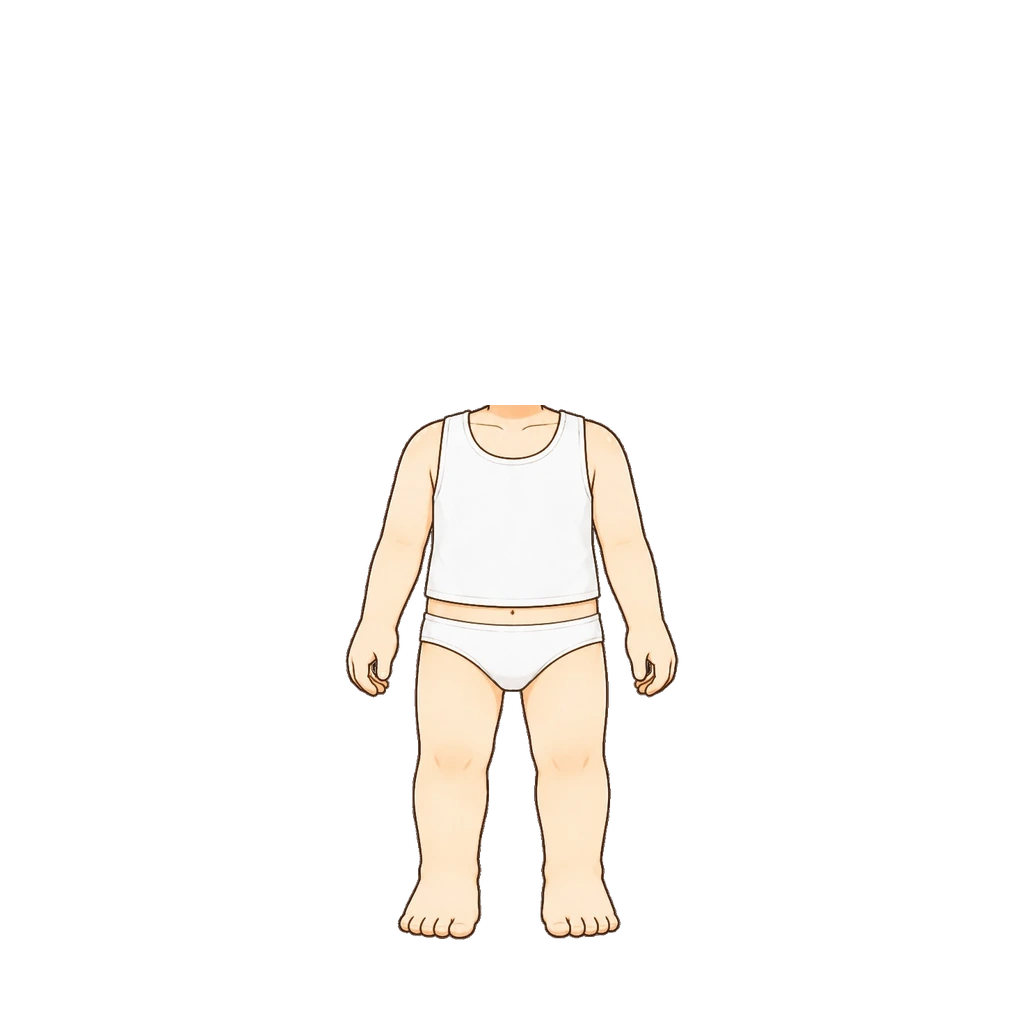
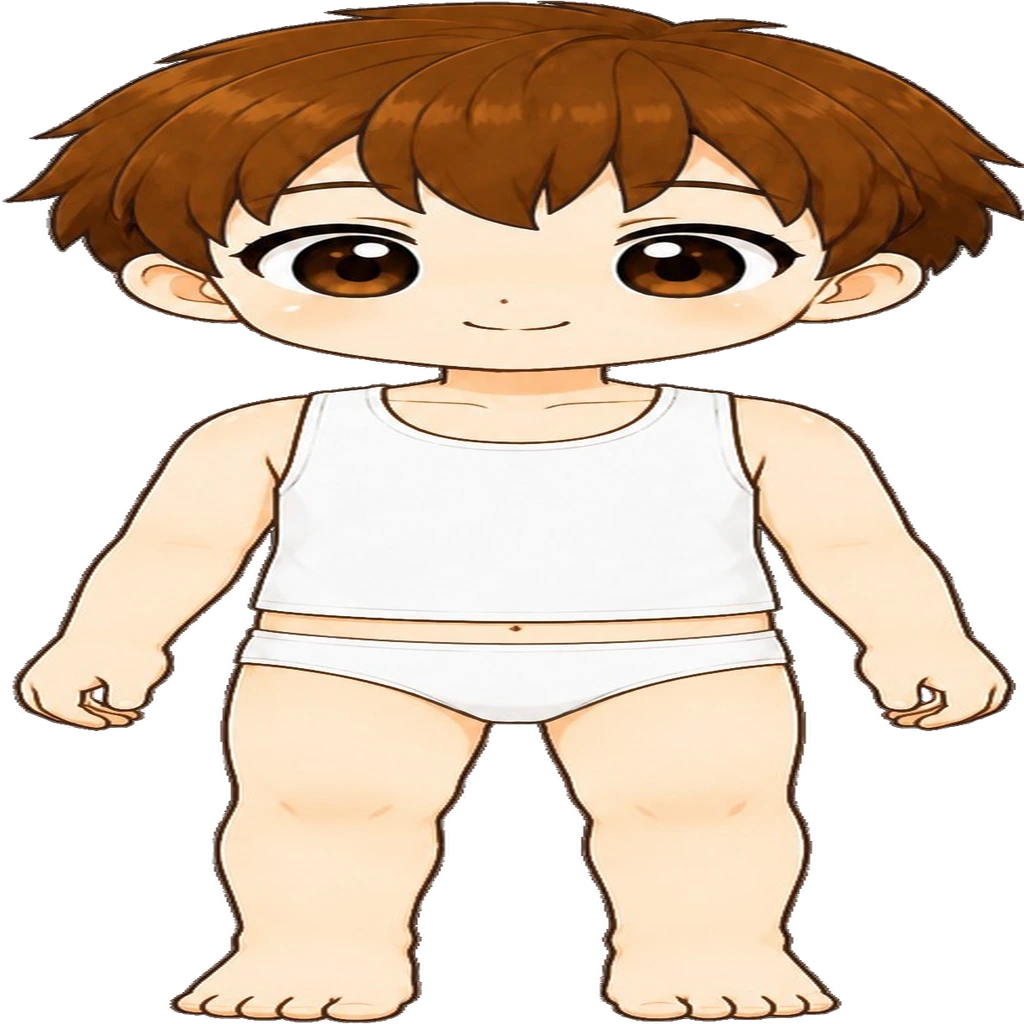
남아 아바타 기본 몸체 새 버전으로 교체
사용자 제공 원화(갈색 짧은 머리)로 body.webp 업데이트.
버전을 v8 → v9로 올려 기존 기기 캐시 무효화.
art-src/body-boy-src.webp에 원본 보관 (webp q92).

Claude-Session: https://claude.ai/code/session_018maNuYqDfFyRSe9uKpZhPR

diff --git a/src/data/avatarEquipment.js b/src/data/avatarEquipment.js
@@ -59,7 +59,7 @@ export const AVATAR_BASE_IMG_GIRL = "assets/avatar/base/default-girl.webp?v=8"; 
    여아 갈래머리 모양이 달라졌다). 원화 캔버스·알파 상자·목선 y가 v7과 거의 같아
    (남 630 · 여 578 그대로 맞았다 — 겹쳐서 확인함) 위 탑재 공식을 그대로 재사용했다.
    파일명은 그대로 덮어썼고 경로에 ?v=8 을 붙여 기존 기기의 캐시를 끊는다. */
-export const AVATAR_BASE_BODY_IMG      = "assets/avatar/base/body.webp?v=8";
+export const AVATAR_BASE_BODY_IMG      = "assets/avatar/base/body.webp?v=9";
 export const AVATAR_BASE_HEAD_IMG      = "assets/avatar/base/head.webp?v=8";
 export const AVATAR_BASE_BODY_IMG_GIRL = "assets/avatar/base/body-girl.webp?v=8";
 export const AVATAR_BASE_HEAD_IMG_GIRL = "assets/avatar/base/head-girl.webp?v=8";

diff --git a/art-src/README.md b/art-src/README.md
@@ -550,3 +550,8 @@ bbox로 여백만 잘라내고 배포본은 높이 480px로 축소했다(전부 
 | petskin/lion-src.webp | 펫 스킨 '용맹한 사자' (1254×1254 → bbox 크롭 1193×1219) | petskin/lion.webp |
 | petskin/unicorn-src.webp | 펫 스킨 '전설의 유니콘' (1254×1254 → bbox 크롭 1127×1248) | petskin/unicorn.webp |
 
+
+**[2026-10-02] 남아 몸통 교체** — 사용자 원화(갈색 짧은 머리)
+`body-boy-src.webp` 488×1220 · 탑재본 1024×1024 (배율 조정 후 캔버스에 맞춤)
+기본 베이스 구조(turnkey v6) 유지 — 발끝 y938 · 목 top y340 · 턱 y343 · 머리 꼭대기 y91.
+상자 몸통 x375~649 y340~938. 경로에 ?v=9를 붙여 캐시 무효화.
